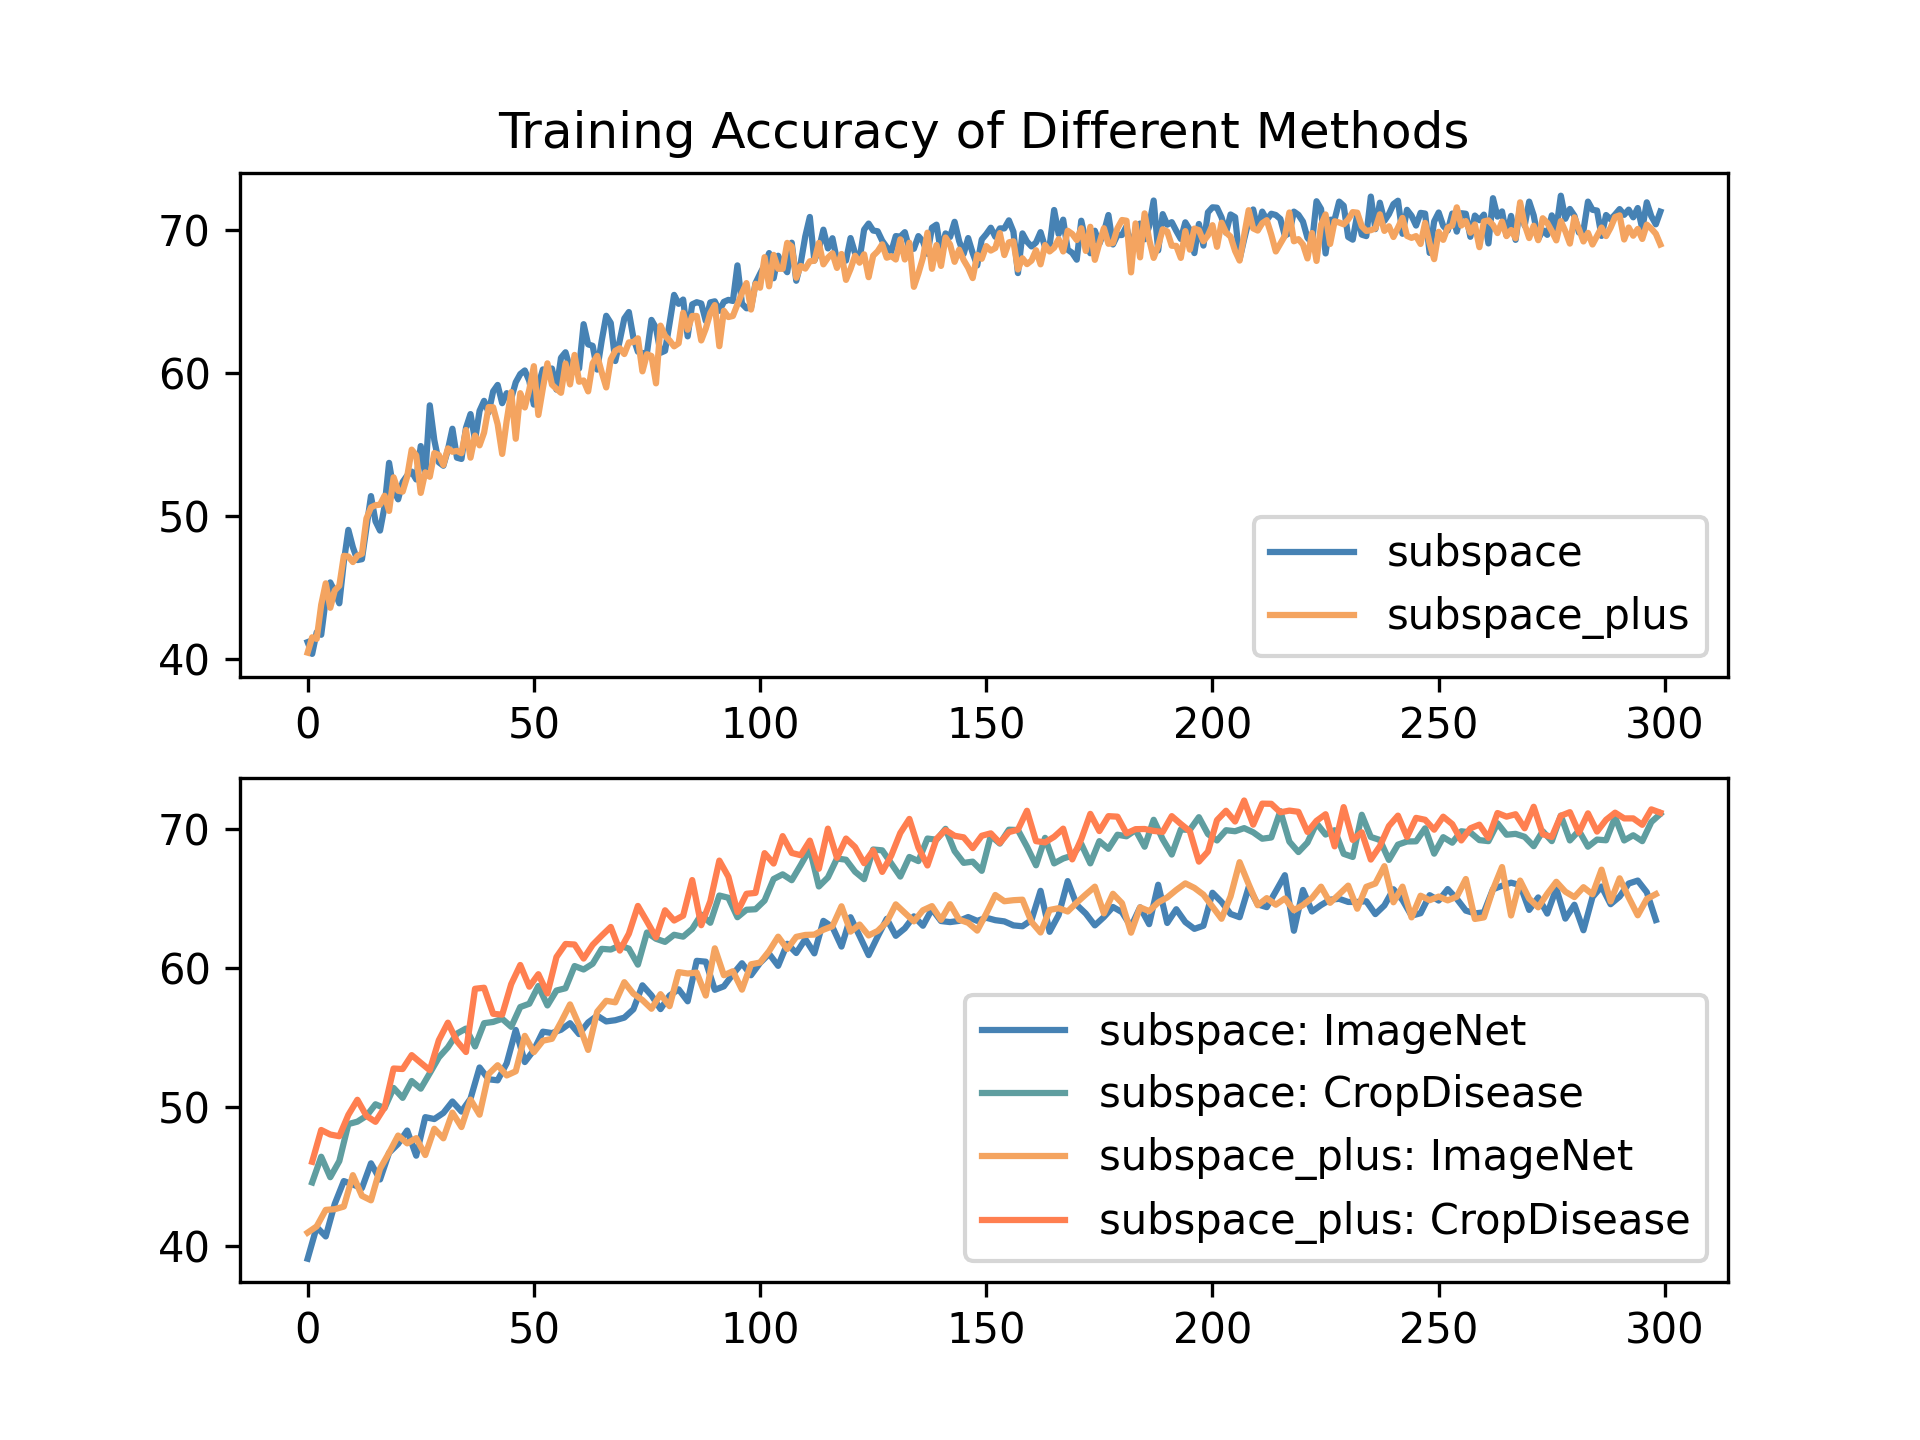
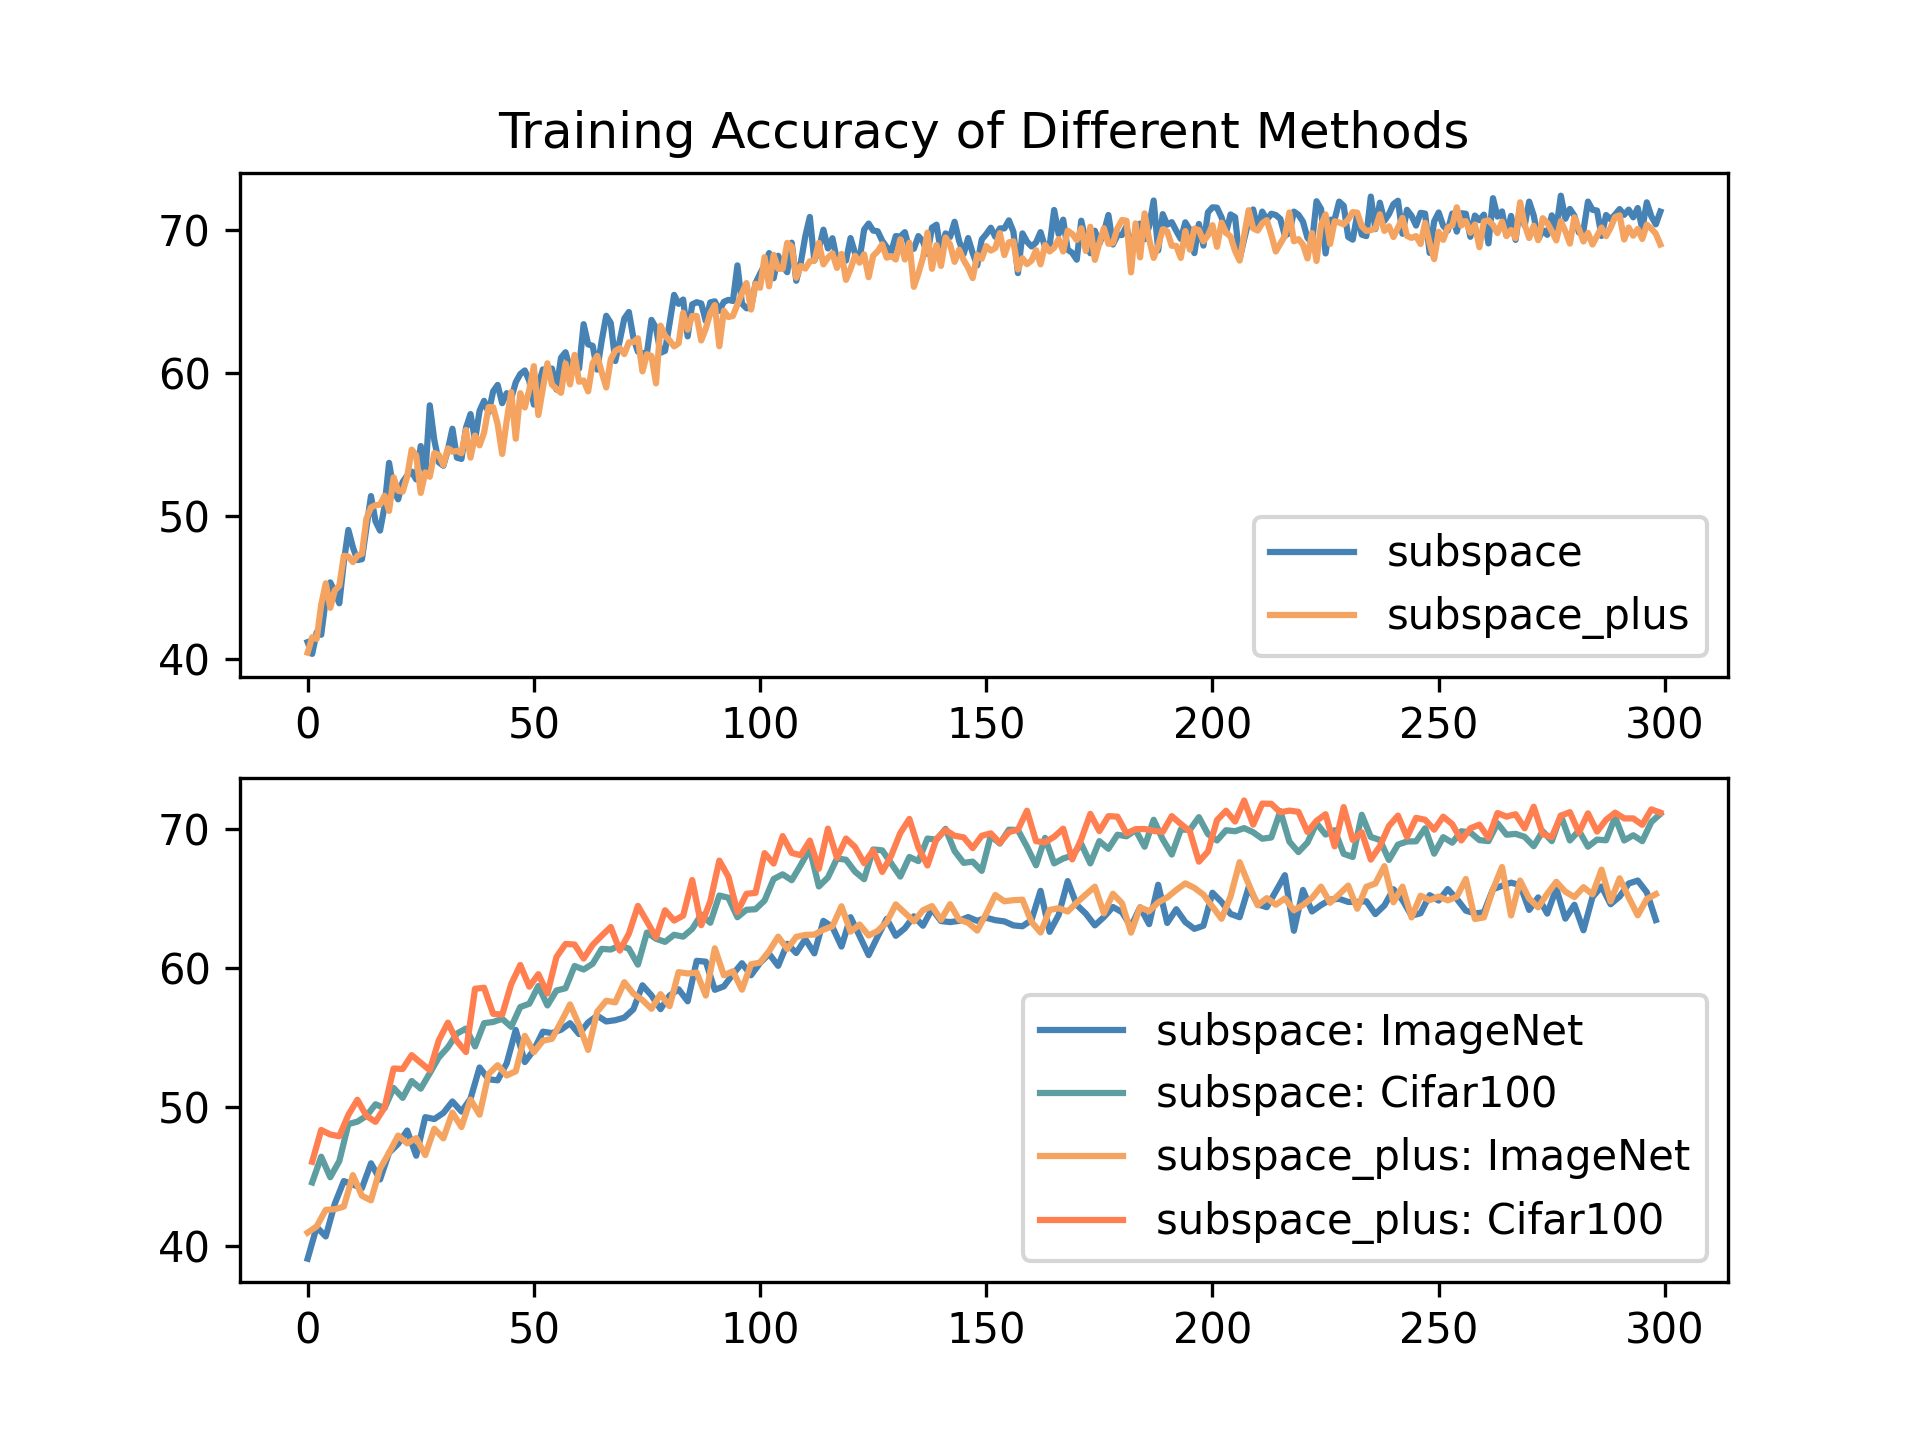
fix plot image legend

Changed region(s): [[0.5, 0.6875, 0.875, 0.875]]

diff --git a/NTU_aMMAI21_cdfsl/plot/plot.py b/NTU_aMMAI21_cdfsl/plot/plot.py
@@ -25,7 +25,7 @@ if __name__ == '__main__':
                         imgnet = np.arange(0, 300, 2)
                         crop = np.arange(1, 300, 2)
                         ax[i].plot(imgnet, data[imgnet, 1], COLORS[method][0], label=f'{method}: ImageNet')
-                        ax[i].plot(crop, data[crop, 1], COLORS[method][1], label=f'{method}: CropDisease')
+                        ax[i].plot(crop, data[crop, 1], COLORS[method][1], label=f'{method}: Cifar100')
                         ax[i].legend()
             except Exception as e:
                 print(e)
